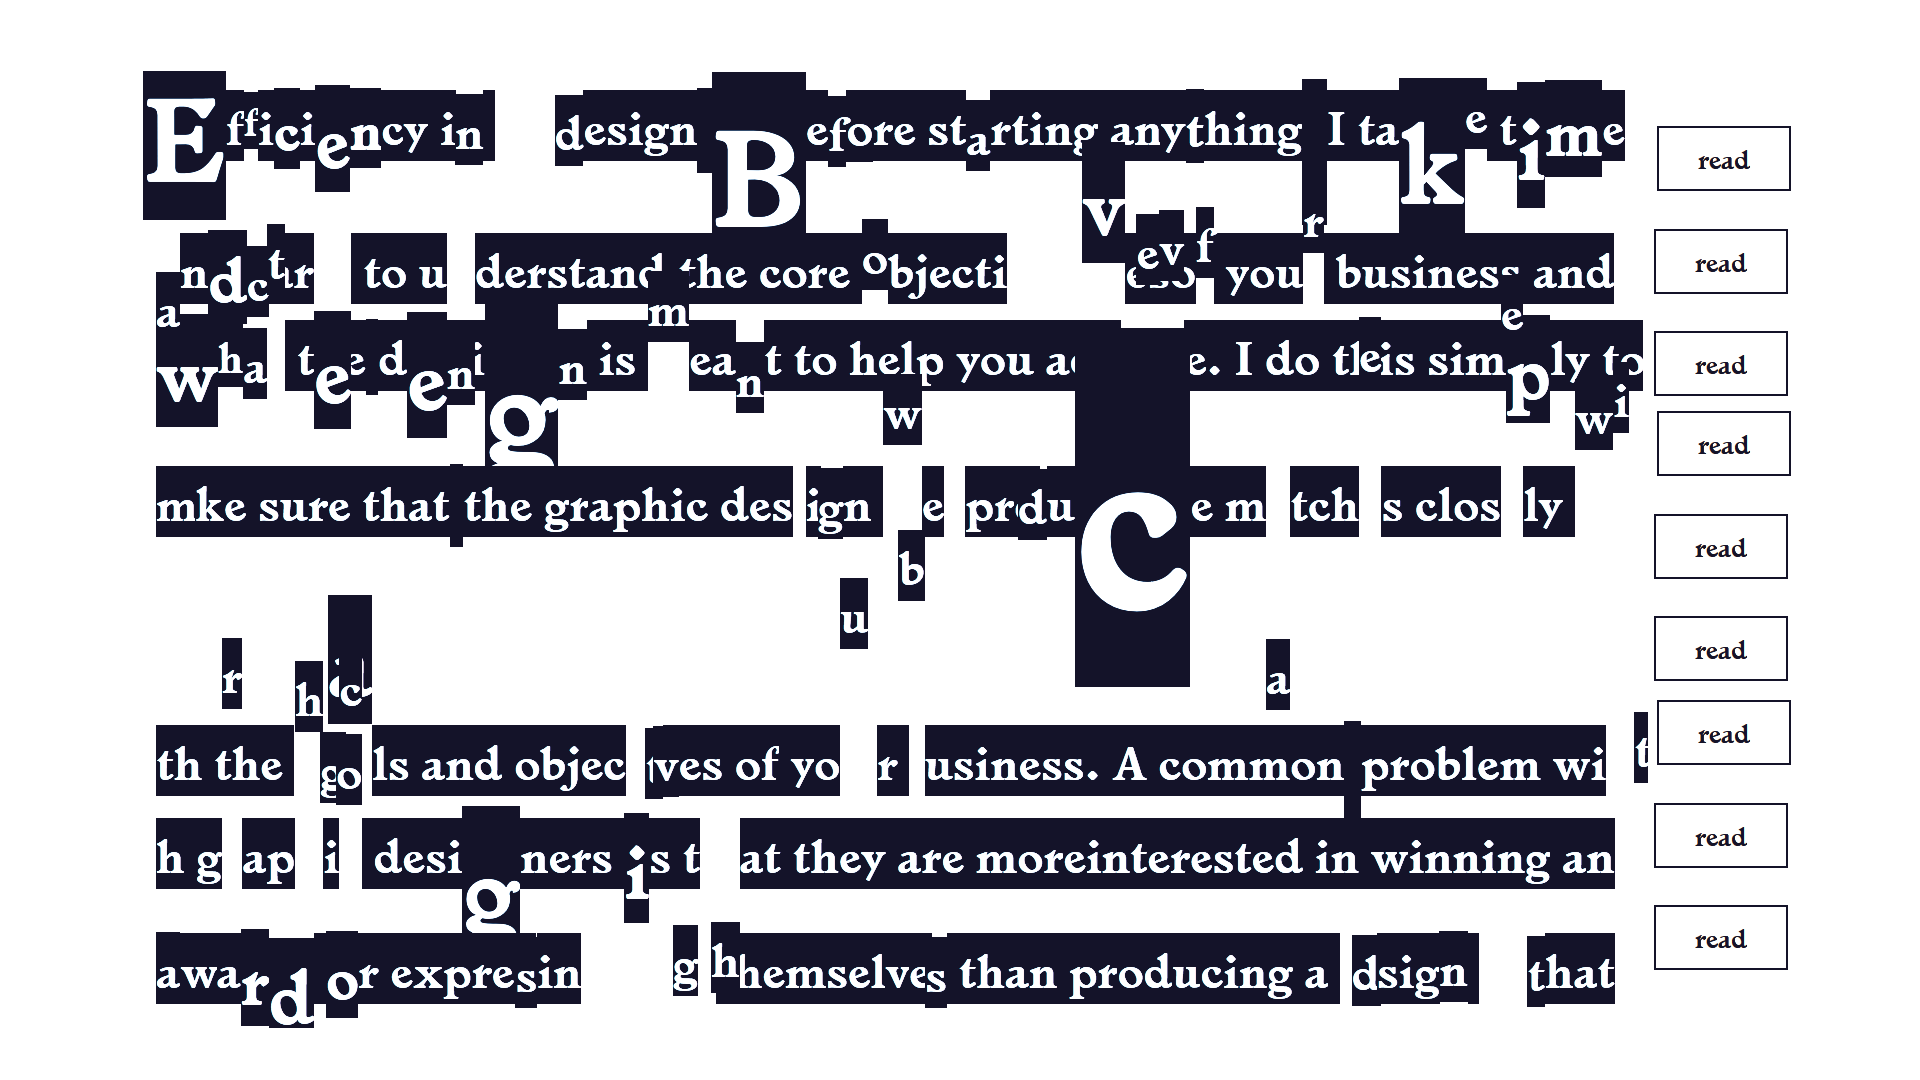
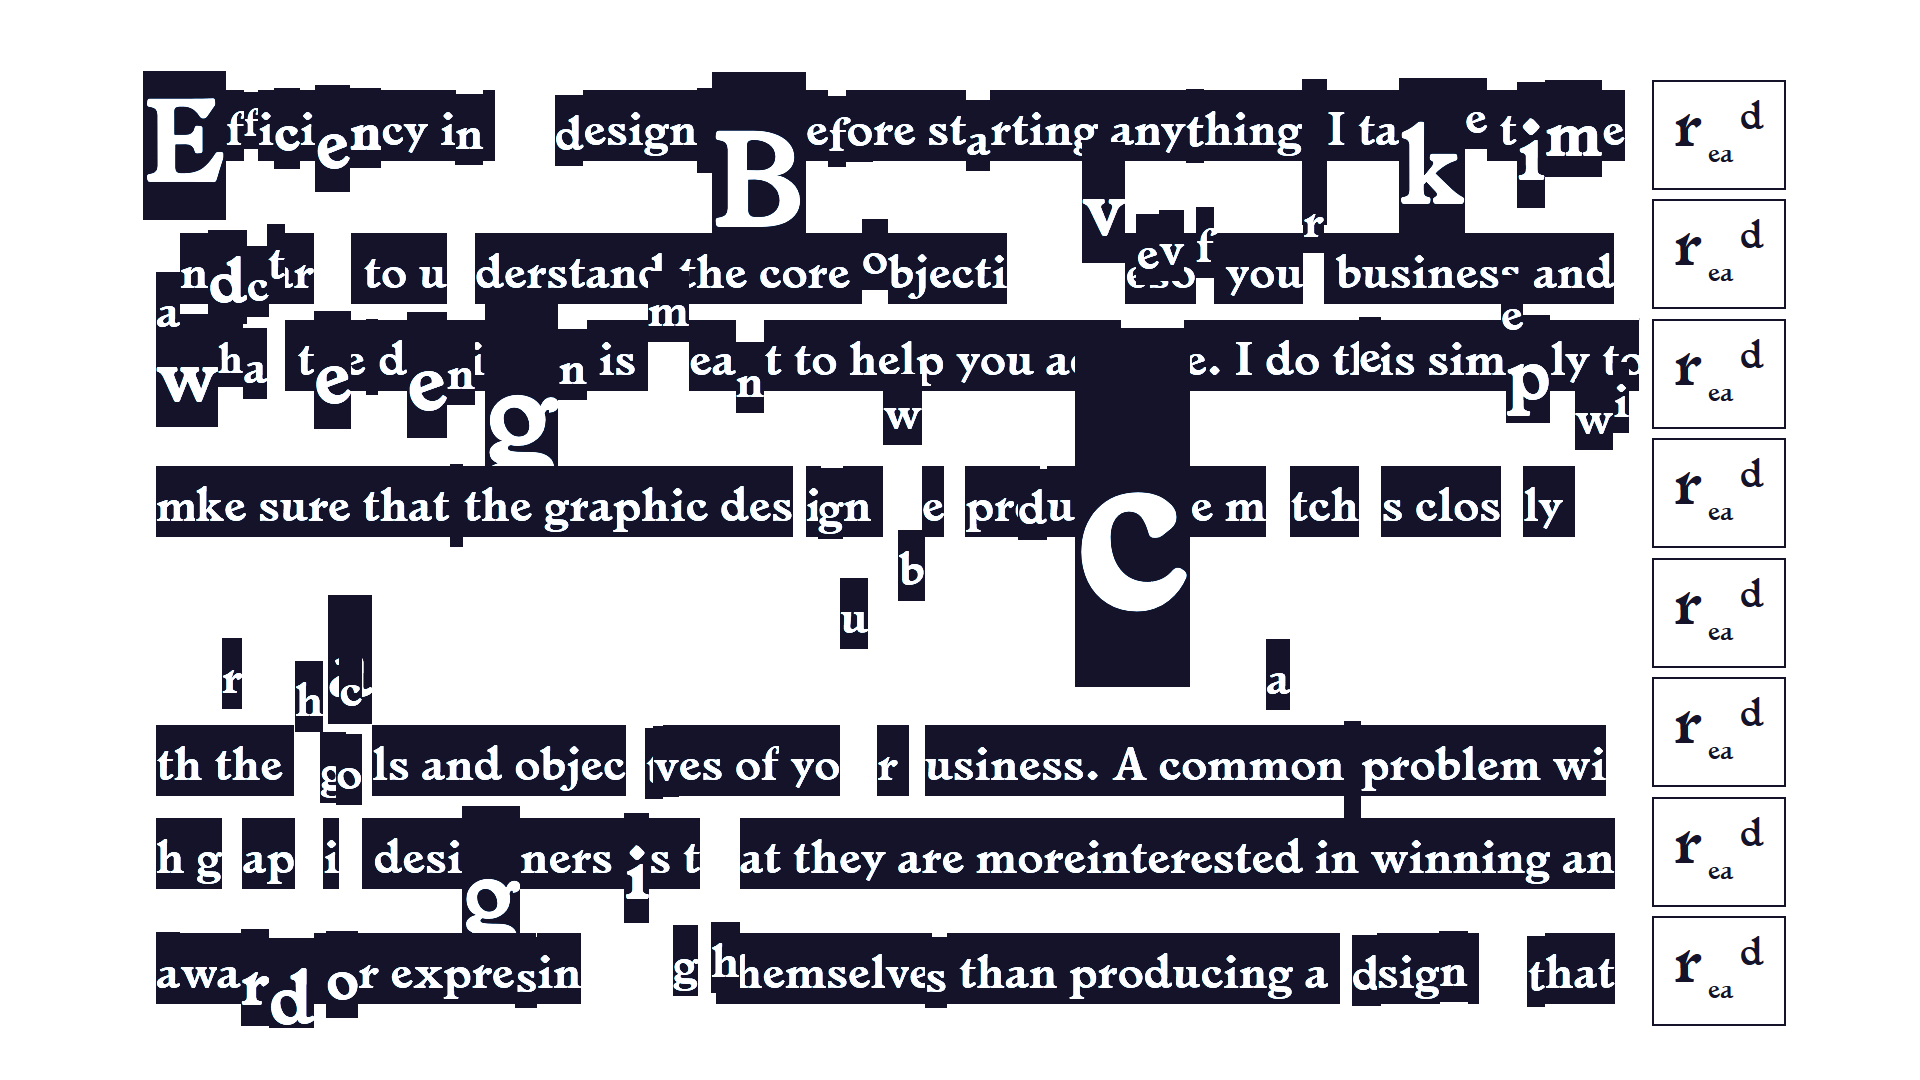
a

Changed region(s): [[0.8438, 0.0917, 0.9375, 0.825], [0.875, 0.8556, 0.9375, 0.9167]]

diff --git a/efficiency-in-design/index.html b/efficiency-in-design/index.html
@@ -21,7 +21,10 @@
 
 <body>
     <div class="float-right">
-        <p class="cb">read</p>
+        <p class="cb">
+        <span class="ch1">r</span>
+        ea
+        <span class="ch2">d</span></p>
         <div class="reveal-overlay">
             <div id="about" class="reveal" data-reveal="hxwf06-reveal" aria-labelledby="directions" aria-hidden="false" role="dialog" data-yeti-box="about" data-resize="about" style="top: 58px; display: block; overflow: hidden;" tabindex="-1" data-events="resize">
                 <a class="close-button" data-close="" aria-label="Close" style="display: block;">x</a>

diff --git a/efficiency-in-design/style.css b/efficiency-in-design/style.css
@@ -13,18 +13,33 @@ h1 {
 
 }
 
+body > div.float-right > p > span{
 
-
-
-::-moz-selection {
-    background: #141329;
-    color: white;
+    position: relative;
+    top: -0.25em;
+    font-size: 245%;
 }
+
+body > div.float-right > p > span.ch2 {
+      position: relative;
+    top: -0.85em;
+    font-size: 150%;
+}
+
+
 
 ::selection {
+    color: #fff;
     background: #141329;
-    color: white;
+   
 }
+/* For Mozilla Firefox */
+::-moz-selection {
+    color: #fff;
+    background: #141329;
+  
+}
+
 
 
 .float-right{
